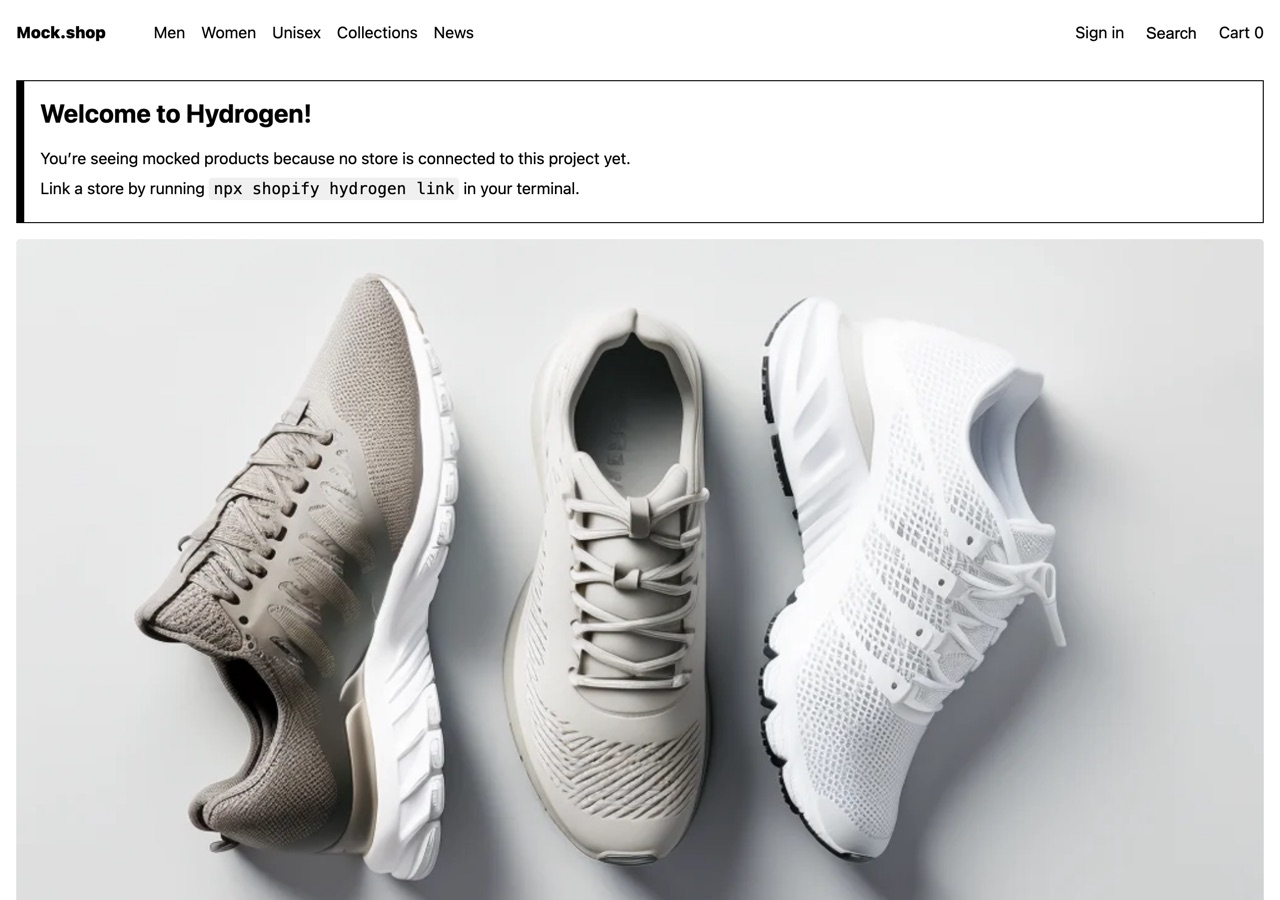
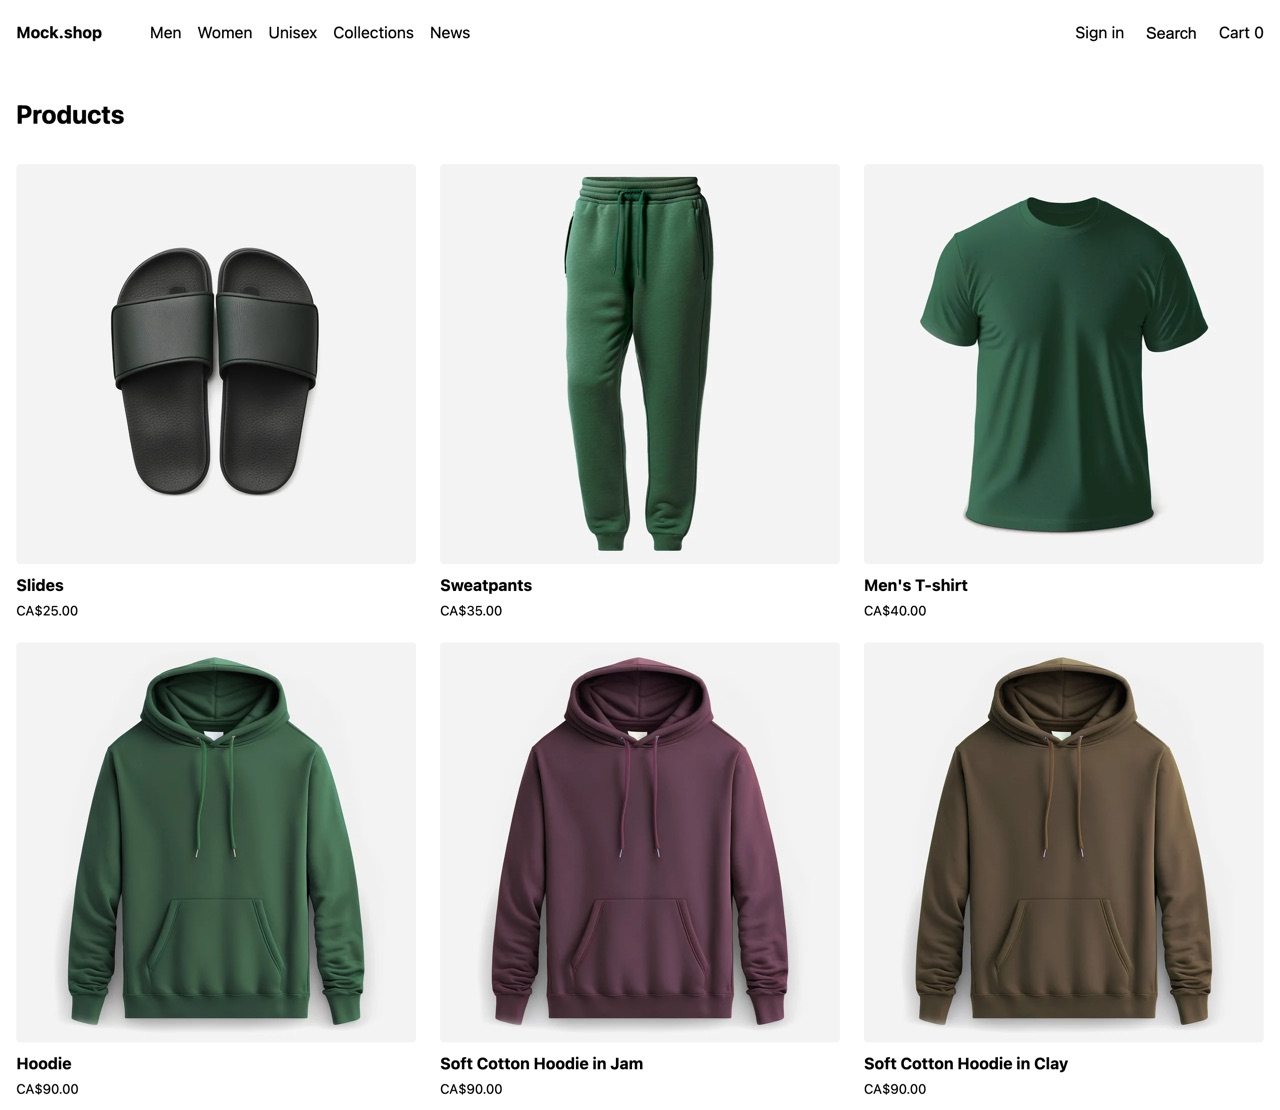
README: left-aligned layout, product-grid screenshots, drop the diagram
Screenshots now show each store's products page (six products per store) instead of
one hero image, everything is left-aligned plain markdown, and the mermaid section is gone.

diff --git a/README.md b/README.md
@@ -1,48 +1,31 @@
-<div align="center">
+# mock.shop starter
 
-<h1>mock.shop starter</h1>
+**A Shopify Hydrogen storefront that runs the moment you clone it.** No store, no token, no account. It reads [mock.shop](https://mock.shop), a real Storefront API with more than 100 fictional catalogs to build against.
 
-<p>
-  <strong>A Shopify Hydrogen storefront that runs the moment you clone it.</strong><br>
-  No store. No token. No account. A real Storefront API with more than 100 fictional catalogs to build against.
-</p>
+[![MIT license](https://img.shields.io/badge/License-MIT-blue.svg)](LICENSE.md) [![Hydrogen 2026.4](https://img.shields.io/badge/Hydrogen-2026.4-95BF47?logo=shopify&logoColor=white)](https://shopify.dev/docs/storefronts/headless/hydrogen) ![Node 22 or 24](https://img.shields.io/badge/Node-22%20%7C%2024-339933?logo=node.js&logoColor=white)
 
-<p>
-  <a href="LICENSE.md"><img alt="MIT license" src="https://img.shields.io/badge/License-MIT-blue.svg"></a>
-  <a href="https://shopify.dev/docs/storefronts/headless/hydrogen"><img alt="Hydrogen 2026.4" src="https://img.shields.io/badge/Hydrogen-2026.4-95BF47?logo=shopify&logoColor=white"></a>
-  <img alt="Node 22 or 24" src="https://img.shields.io/badge/Node-22%20%7C%2024-339933?logo=node.js&logoColor=white">
-</p>
-
-<p>
-  <a href="https://stackblitz.com/github/Shopify/mock-shop-starter"><img alt="Open in StackBlitz" src="https://img.shields.io/badge/Open%20in-StackBlitz-1269D3?logo=stackblitz&logoColor=white"></a>
-  <a href="https://codesandbox.io/s/github/Shopify/mock-shop-starter"><img alt="Open in CodeSandbox" src="https://img.shields.io/badge/Open%20in-CodeSandbox-151515?logo=codesandbox&logoColor=white"></a>
-  <a href="https://bolt.new/github.com/Shopify/mock-shop-starter"><img alt="Open in Bolt" src="https://img.shields.io/badge/Open%20in-Bolt-000000?logo=bolt&logoColor=white"></a>
-</p>
+[![Open in StackBlitz](https://img.shields.io/badge/Open%20in-StackBlitz-1269D3?logo=stackblitz&logoColor=white)](https://stackblitz.com/github/Shopify/mock-shop-starter) [![Open in CodeSandbox](https://img.shields.io/badge/Open%20in-CodeSandbox-151515?logo=codesandbox&logoColor=white)](https://codesandbox.io/s/github/Shopify/mock-shop-starter) [![Open in Bolt](https://img.shields.io/badge/Open%20in-Bolt-000000?logo=bolt&logoColor=white)](https://bolt.new/github.com/Shopify/mock-shop-starter)
 
 <!-- Deploy with Vercel: GA Hydrogen targets Oxygen. Decision pending on linking Hydrogen's preview Next.js template here. -->
 
 <table>
   <tr>
-    <td align="center"><img src=".github/assets/store-default.jpg" alt="The default mock.shop store: sneakers and apparel basics" width="100%"><br><sub><code>mock.shop</code> · the default</sub></td>
-    <td align="center"><img src=".github/assets/store-candles.jpg" alt="Amber & Aura, a candle store on mock.shop" width="100%"><br><sub><code>candles.mock.shop</code></sub></td>
+    <td width="50%"><img src=".github/assets/store-default.jpg" alt="Products page of the default mock.shop store: slides, sweatpants, t-shirts, and hoodies" width="100%"><br><sub><code>mock.shop</code> · the default</sub></td>
+    <td width="50%"><img src=".github/assets/store-pets.jpg" alt="Products page of Paws and Whimsy: pet beds and carriers" width="100%"><br><sub><code>pets.mock.shop</code></sub></td>
   </tr>
   <tr>
-    <td align="center"><img src=".github/assets/store-coffee.jpg" alt="Sunbeam Brew Co., a coffee store on mock.shop" width="100%"><br><sub><code>coffee.mock.shop</code></sub></td>
-    <td align="center"><img src=".github/assets/store-keyboards.jpg" alt="ClickyCanvas, a mechanical keyboard store on mock.shop" width="100%"><br><sub><code>mechanical-keyboards.mock.shop</code></sub></td>
+    <td width="50%"><img src=".github/assets/store-coffee.jpg" alt="Products page of Sunbeam Brew Co.: coffee bags, mugs, and pour-over gear" width="100%"><br><sub><code>coffee.mock.shop</code></sub></td>
+    <td width="50%"><img src=".github/assets/store-keyboards.jpg" alt="Products page of ClickyCanvas: keyboard frames, switches, and keycaps" width="100%"><br><sub><code>mechanical-keyboards.mock.shop</code></sub></td>
   </tr>
 </table>
 
-<p><sub>Same project, four stores. The only difference between these screenshots is one line in <code>.env</code>.</sub></p>
-
-</div>
-
-<br>
+Same project, four stores. The only difference between these screenshots is one line in `.env`.
 
 <table>
   <tr>
     <td width="33%" valign="top">
       <h3>⚡ Zero setup</h3>
-      Clone, install, run. <a href="https://mock.shop">mock.shop</a> is a public Storefront API, so there's nothing to sign up for and no token to paste.
+      Clone, install, run. mock.shop is a public Storefront API, so there's nothing to sign up for and no token to paste.
     </td>
     <td width="33%" valign="top">
       <h3>🏪 100+ stores</h3>
@@ -89,7 +72,7 @@ npm create @shopify/hydrogen@latest -- --template Shopify/mock-shop-starter
 
 ## Pick a store
 
-mock.shop isn't one store, it's a catalog of them. Every store lives on its own host and serves the same Storefront API at `/api`. To build against one, set a single variable in `.env` and restart the dev server:
+mock.shop isn't one store, it's a catalog of them. Every store lives on its own host and serves the same Storefront API at `/api`, and because mock.shop mirrors the Storefront API, a query you write against it runs unchanged against a real store. To build against one, set a single variable in `.env` and restart the dev server:
 
 ```bash
 PUBLIC_STORE_DOMAIN=candles.mock.shop
@@ -240,19 +223,6 @@ Each store describes its own categories, collections, and product counts at `htt
 
 </details>
 <!-- STORE_DIRECTORY:END -->
-
-## How it works
-
-Hydrogen talks to mock.shop exactly the way it talks to a real Shopify store, because mock.shop mirrors the Storefront API. A query you write today runs unchanged against your store tomorrow.
-
-```mermaid
-flowchart LR
-    app["Your Hydrogen storefront"]
-    mock["candles.mock.shop/api<br/>mock.shop, no token"]
-    real["your-store.myshopify.com<br/>Storefront API, real token"]
-    app -- "PUBLIC_STORE_DOMAIN" --> mock
-    app -. "npx shopify hydrogen link" .-> real
-```
 
 ## What works, and what doesn't
 
